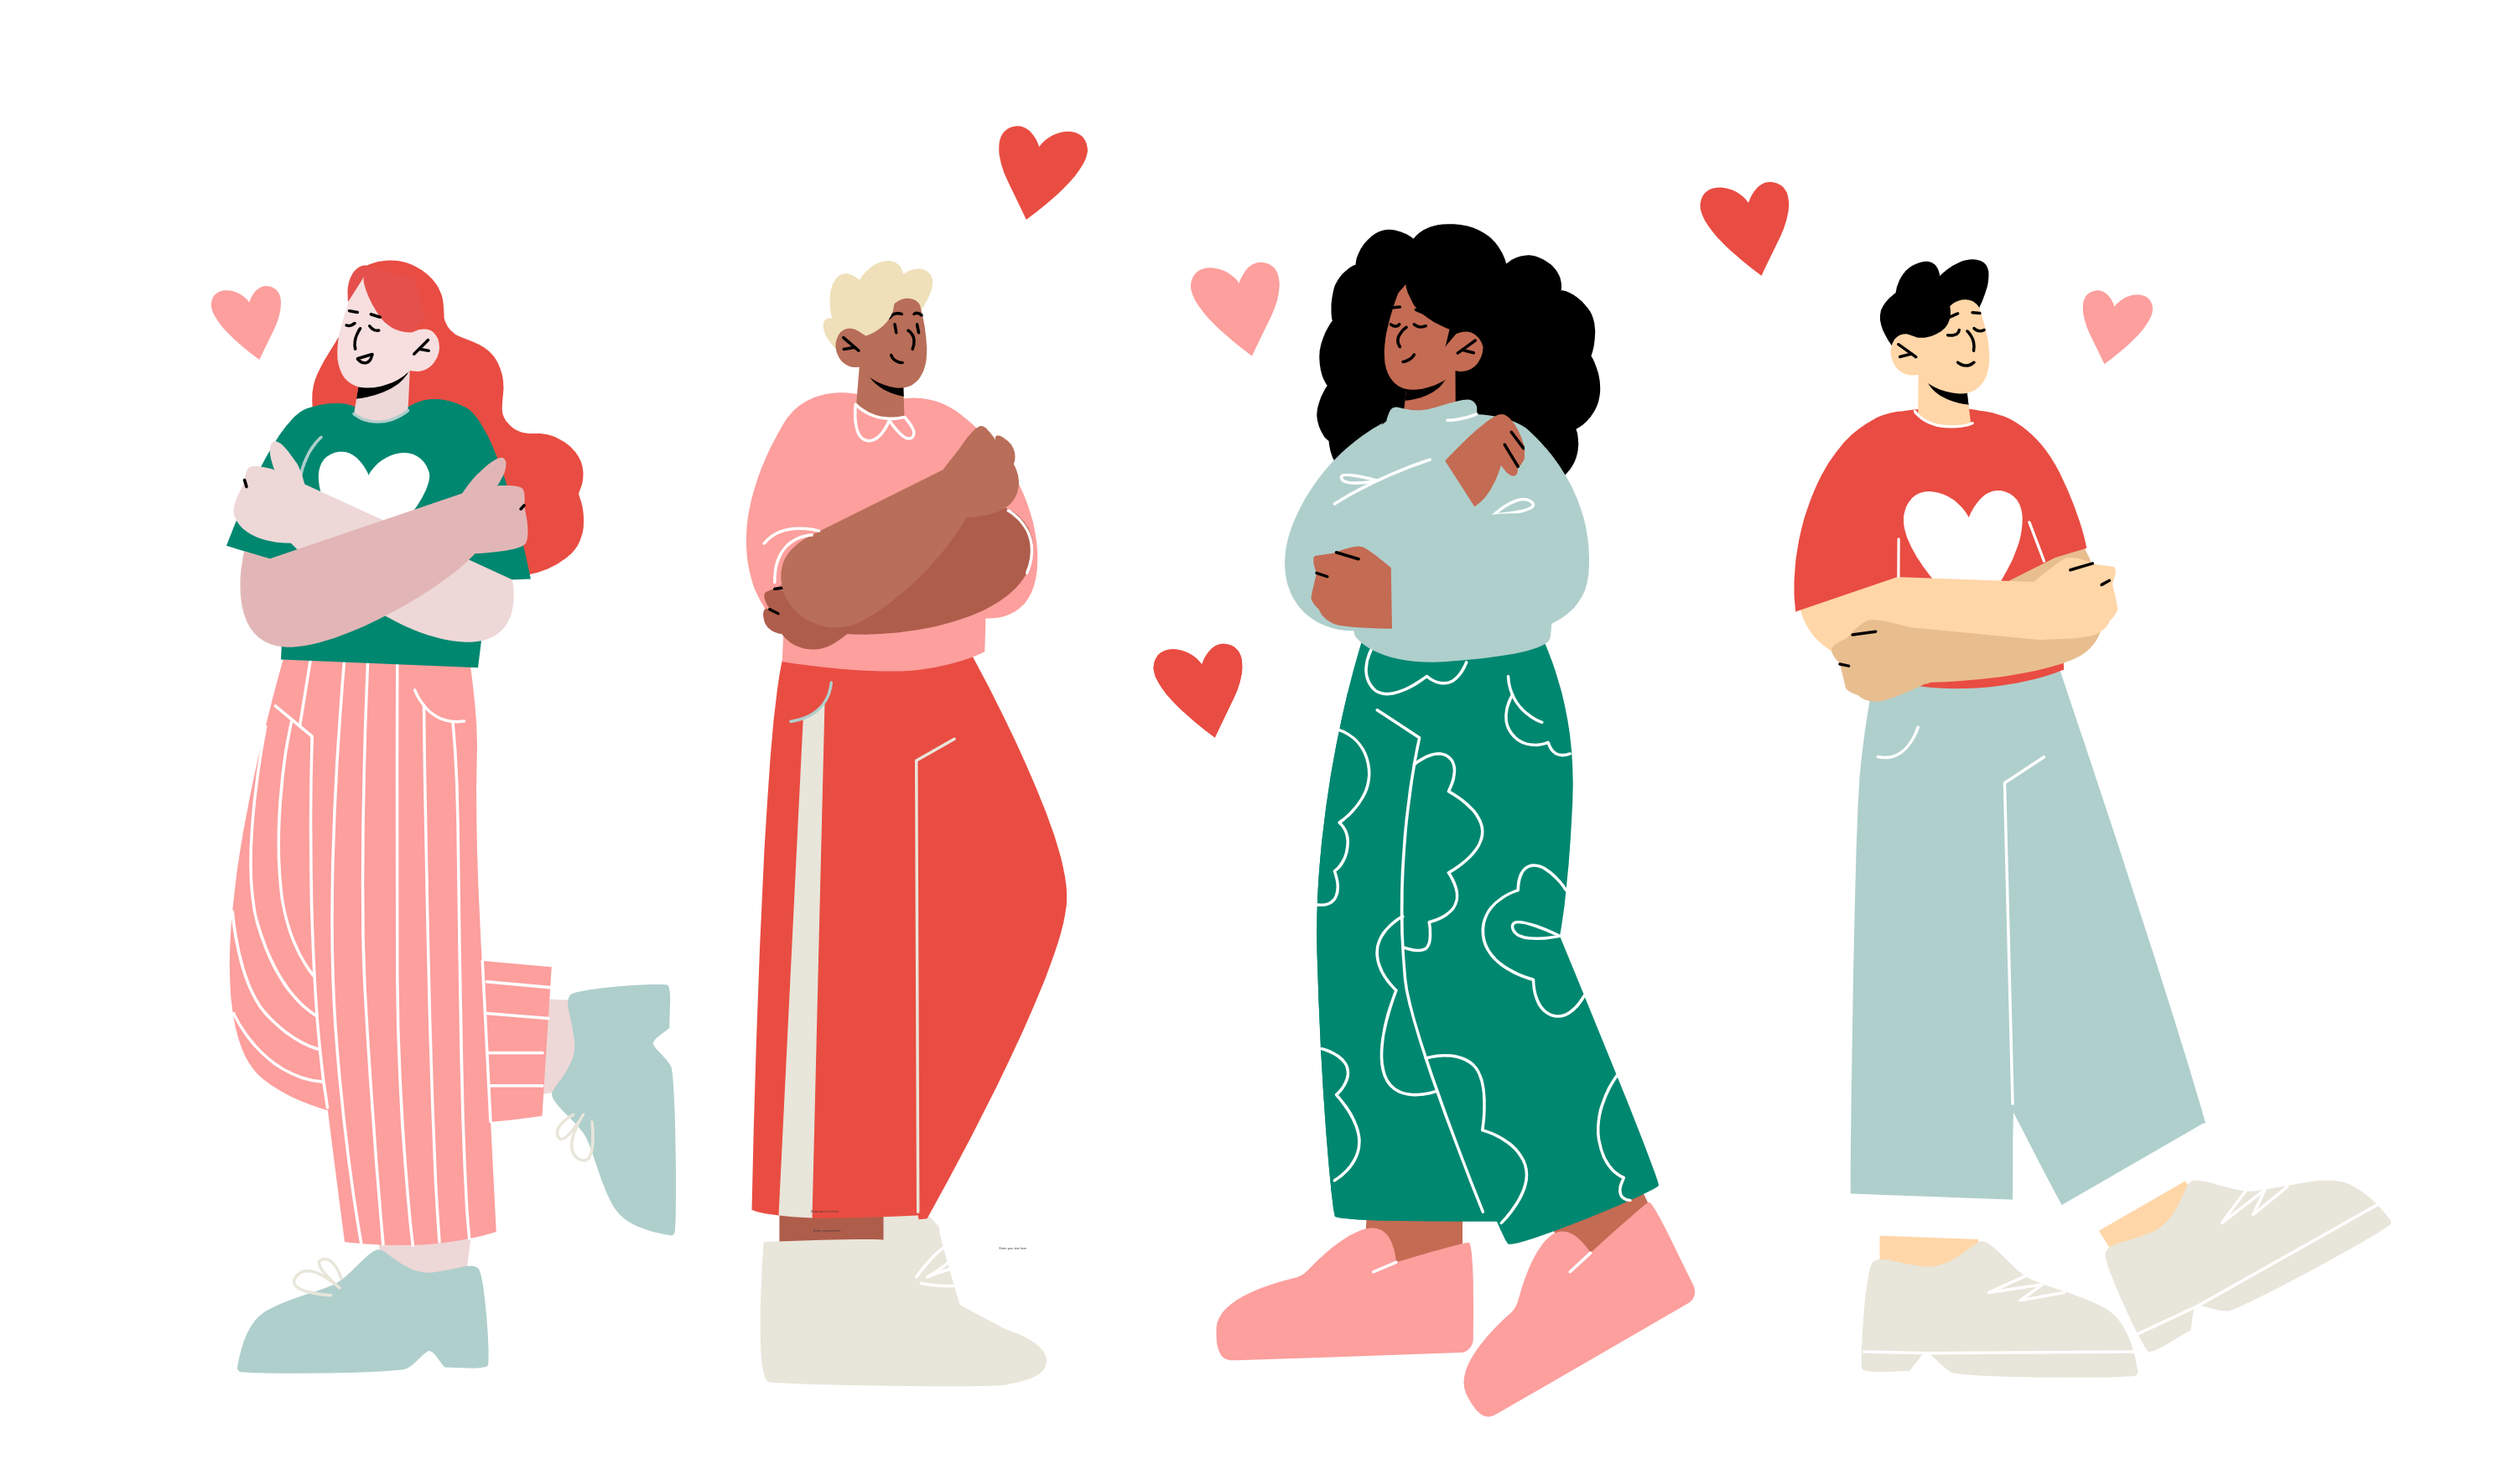
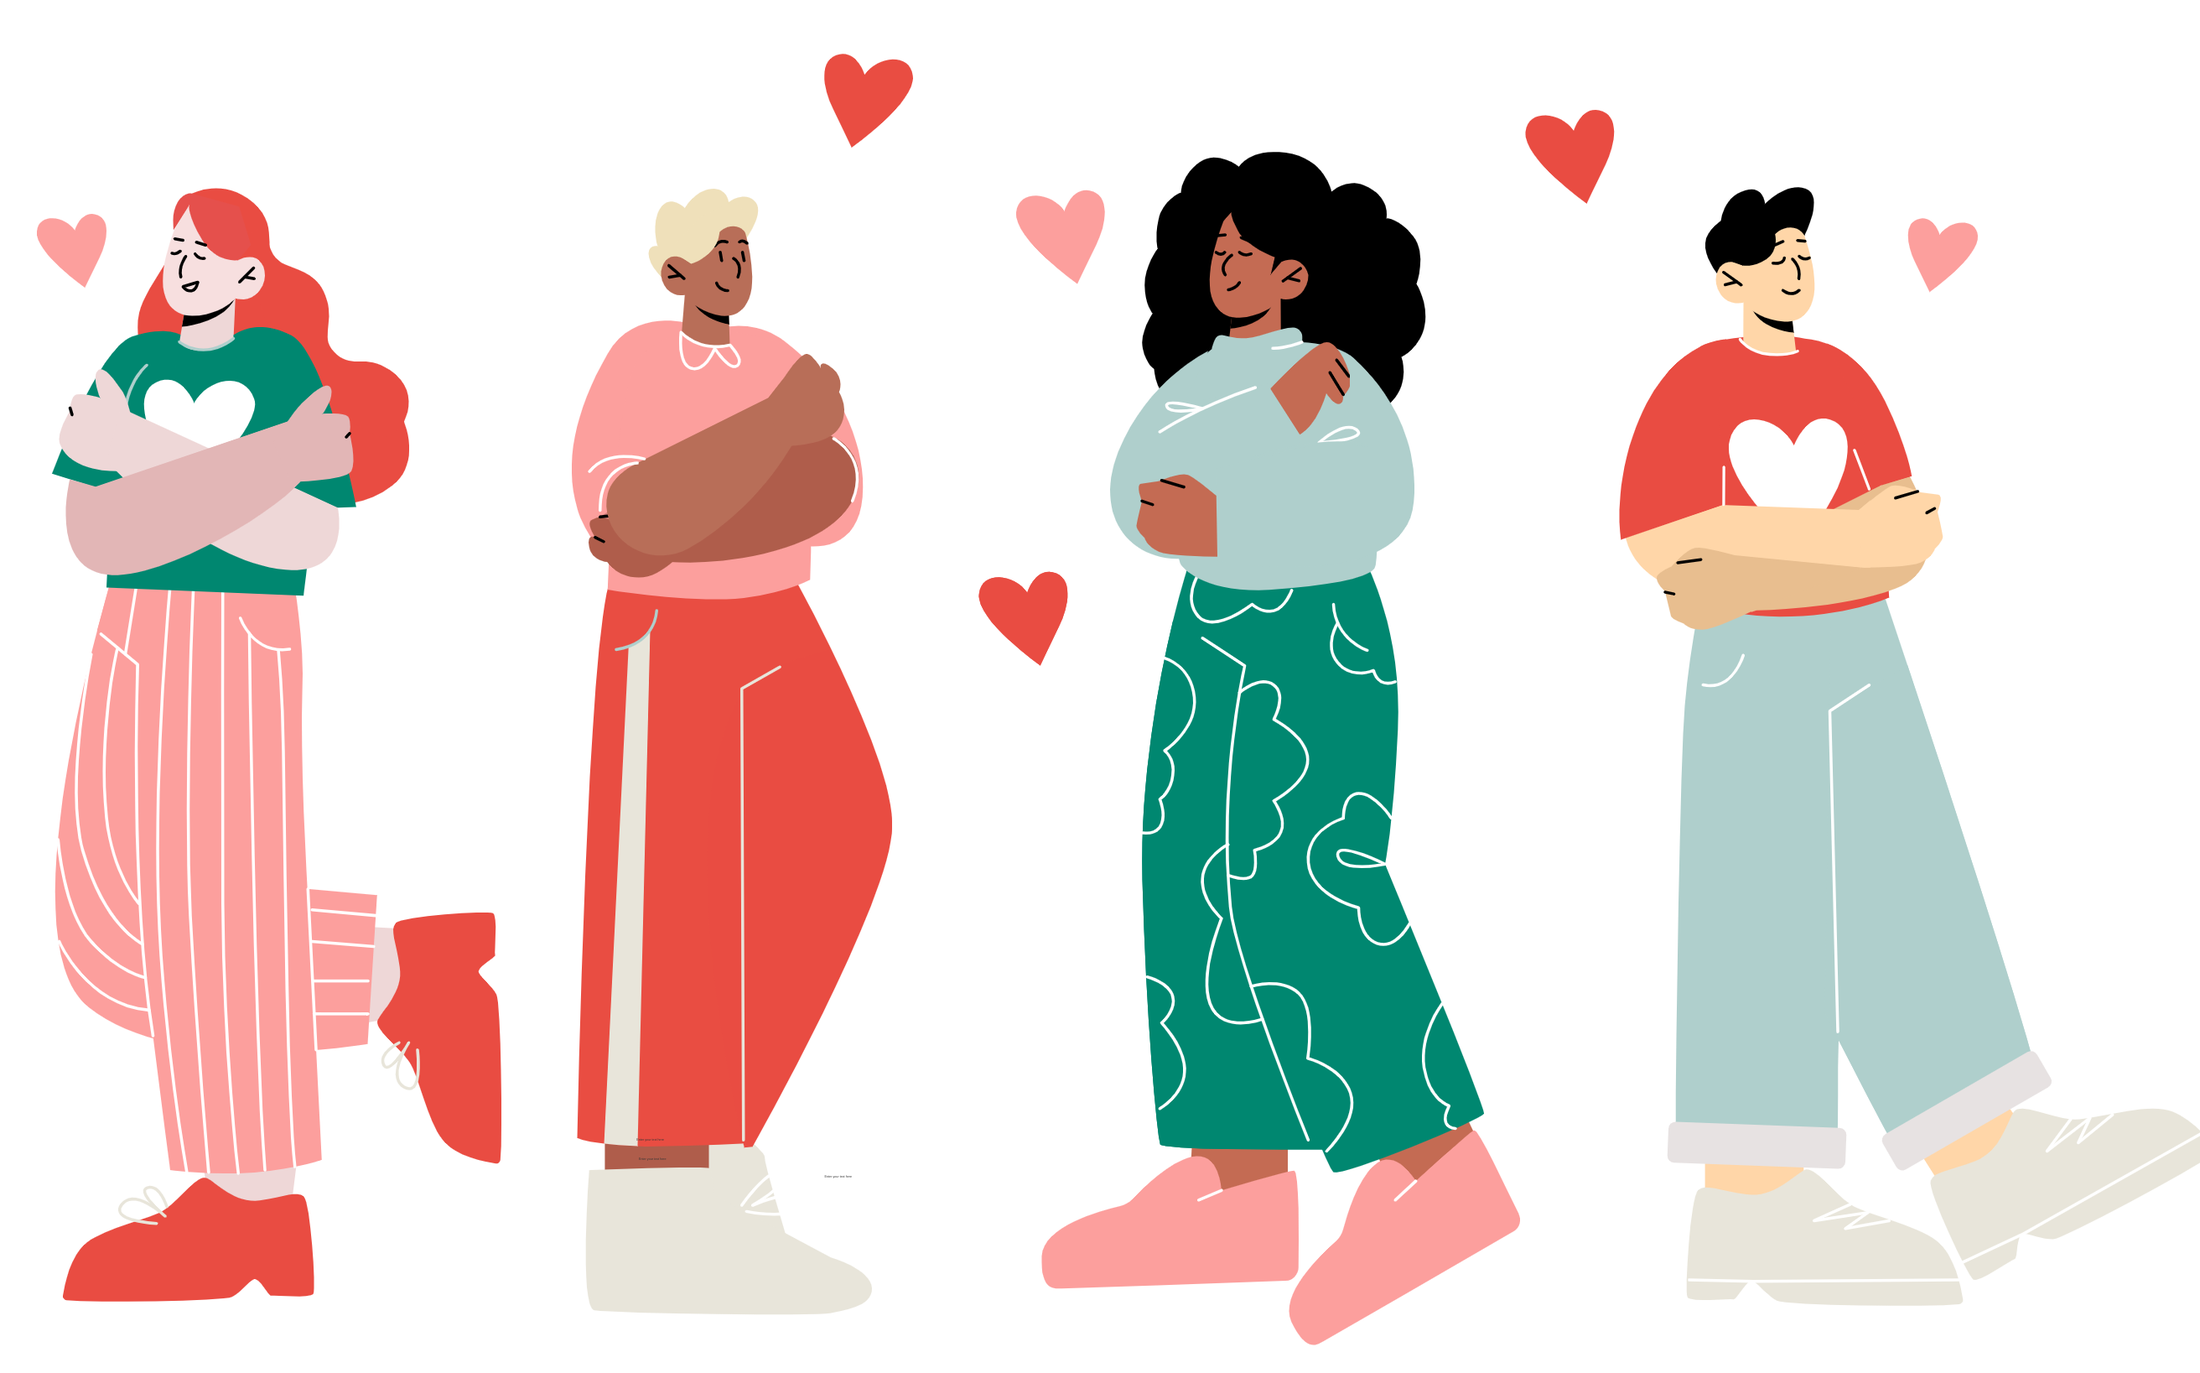
Alterando o background da página de login.

diff --git a/src/styles/feed.css b/src/styles/feed.css
@@ -12,7 +12,7 @@ main {
 
 
 .sidebar {
-    background-color: #E2C5C5;
+    background-color: #AFCFCC;
     display: flex;
     flex-direction: column;
     justify-content: space-between;

diff --git a/src/styles/index.css b/src/styles/index.css
@@ -1,5 +1,7 @@
 body {
-    background: #E2C5C5;
+  background-image: url("/images/background.png");
+  background-repeat: no-repeat;
+  background-size: cover;
 }
 
 main {
